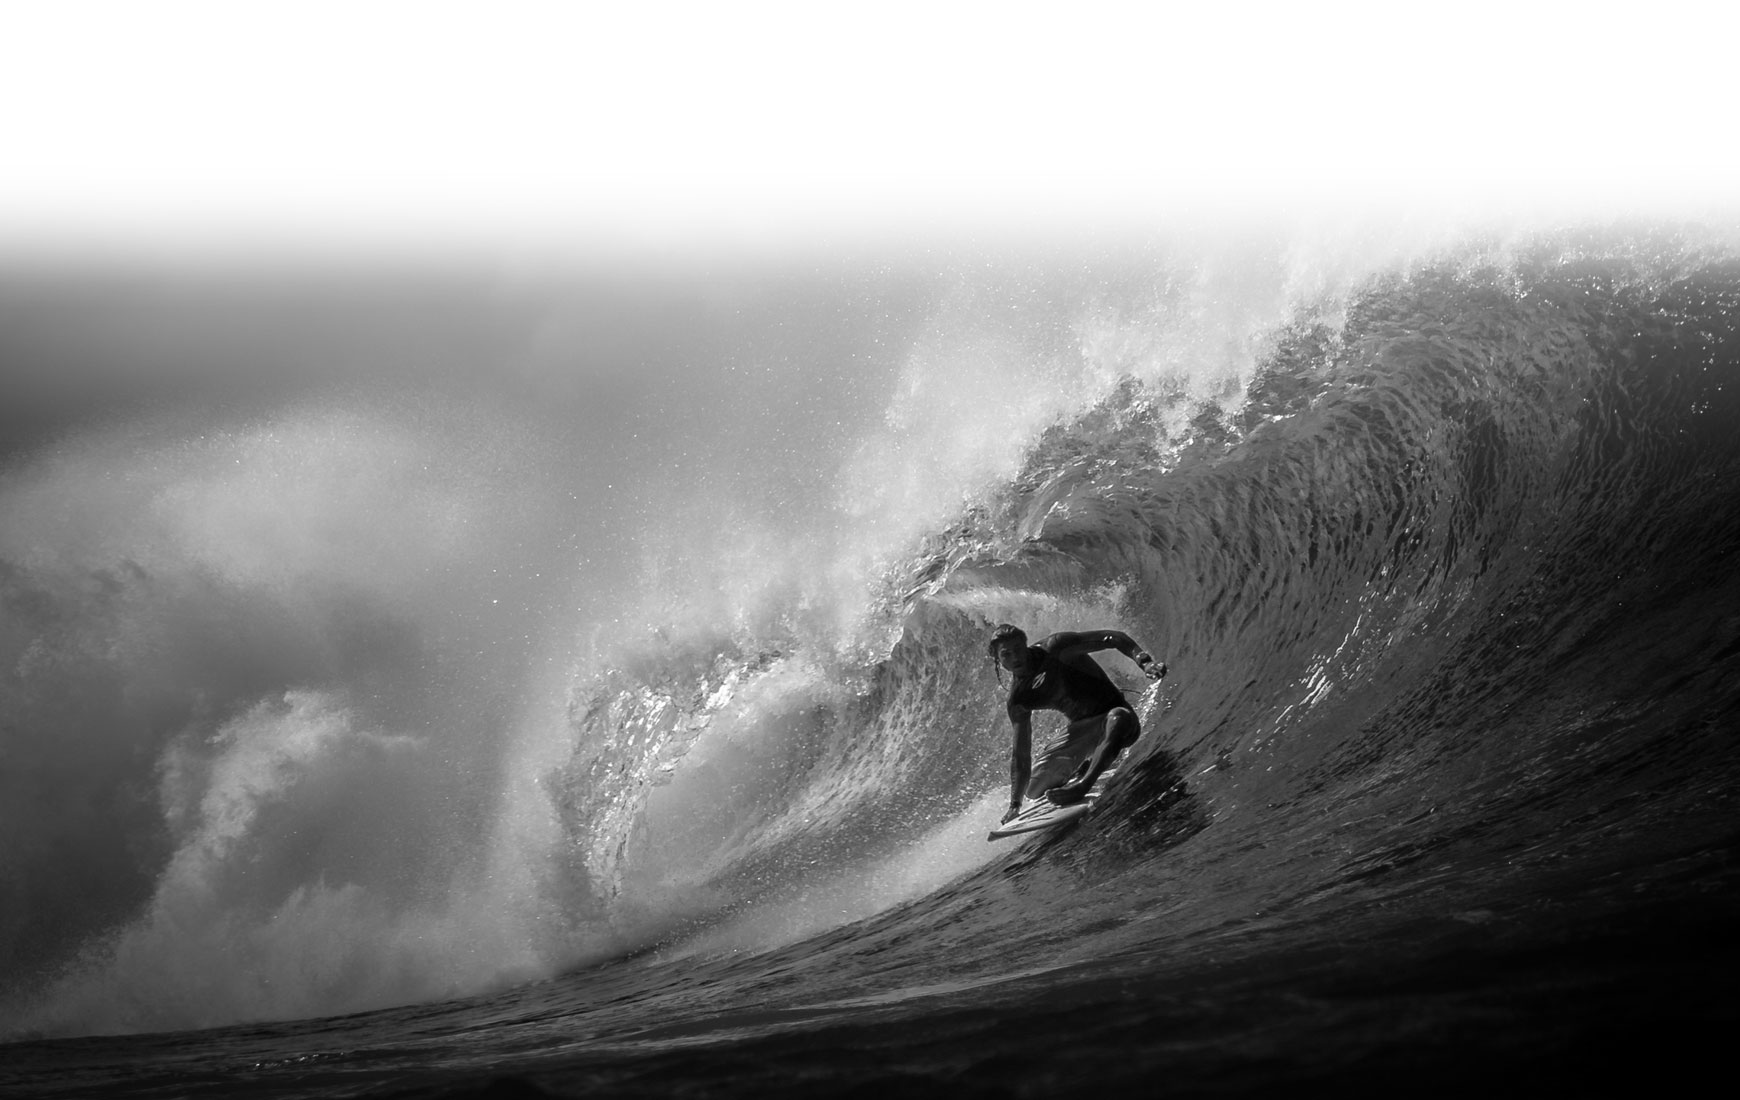
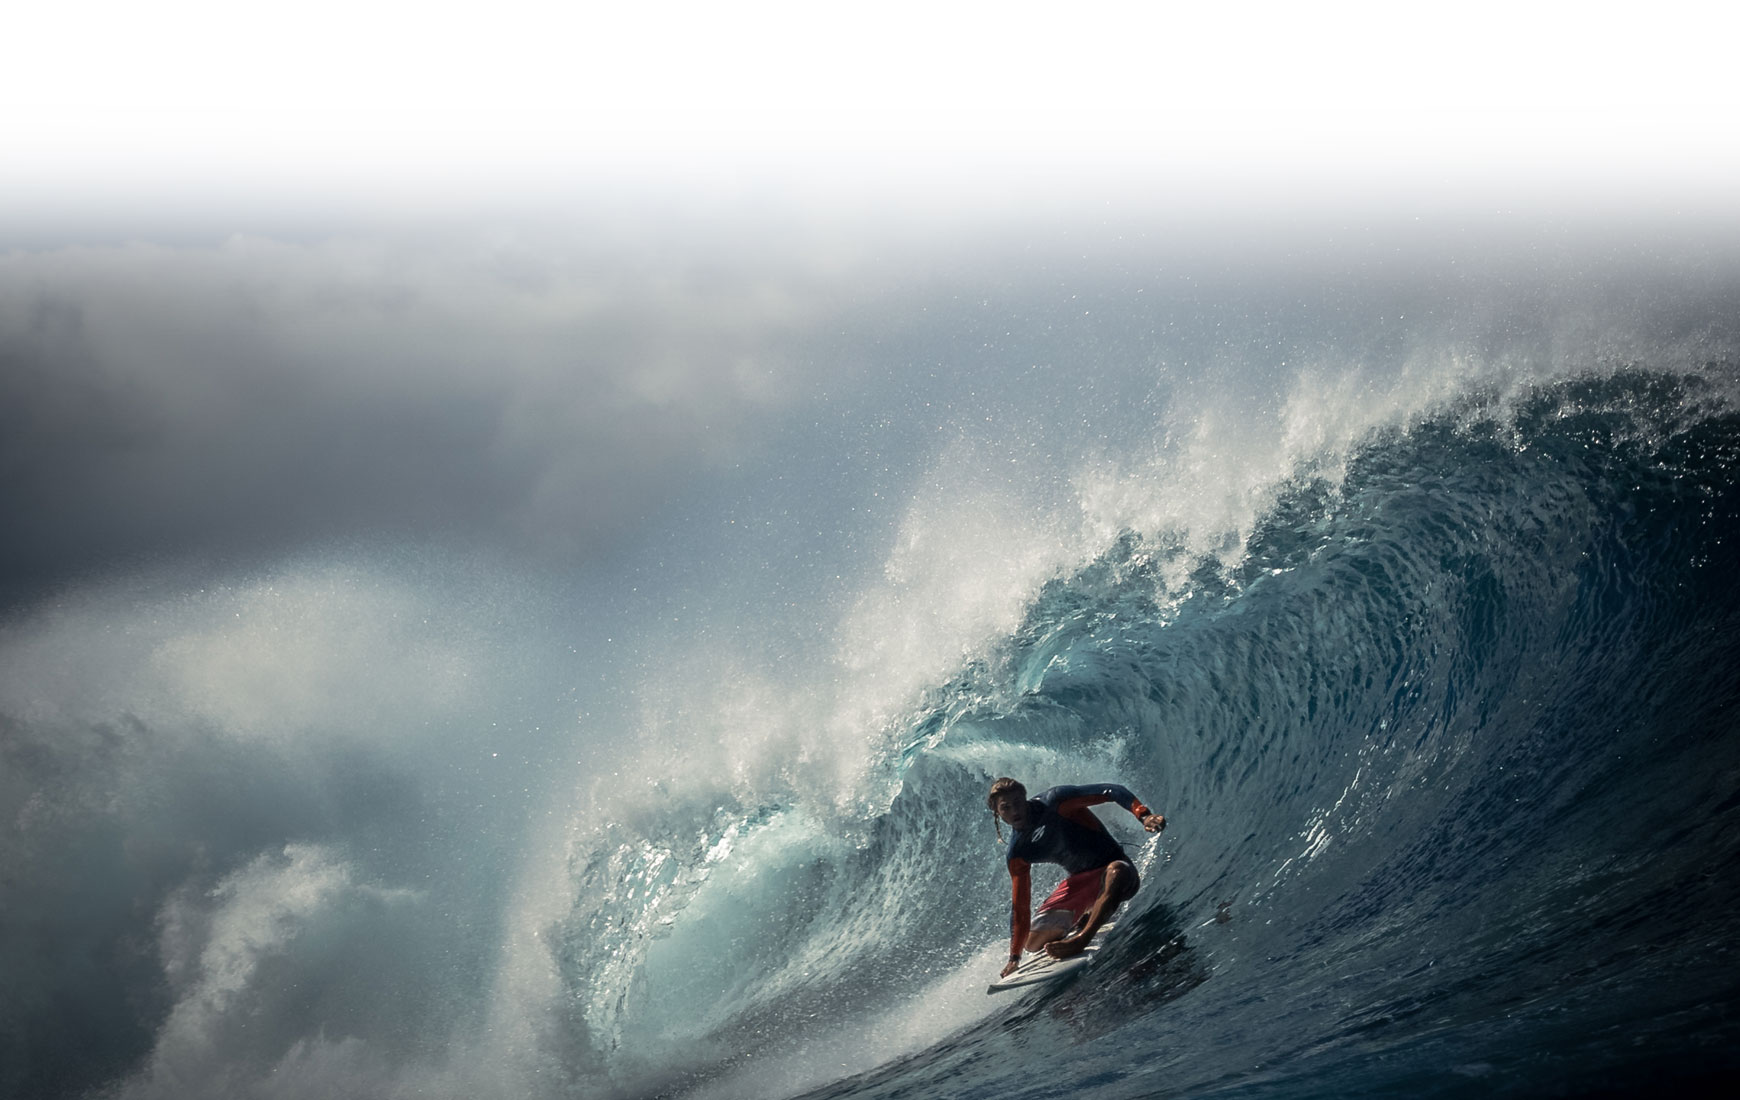
New between section

diff --git a/index.html b/index.html
@@ -5,7 +5,7 @@
   	<link rel="apple-touch-icon" sizes="76x76" href="assets/img/apple-icon.png">
   	<link rel="icon" type="image/png" href="assets/images/favicon.ico">
   	<meta http-equiv="X-UA-Compatible" content="IE=edge,chrome=1" />
-    <meta content='width=device-width, initial-scale=1.0, maximum-scale=1.0, user-scalable=0' name='viewport' />
+    <meta name=viewport content="width=device-width, initial-scale=1">
 
   	<title>WeeSurf | The surf world on your mobile. Interactive map for surfers</title>
 
@@ -53,34 +53,6 @@
     <meta itemprop="name" content="WeeSurf | The surf world on your mobile. Interactive map for surfers">
     <meta itemprop="description" content="The social and interactive map for surfers on your mobile. WEESURF locates for you surf spots, shops, schools, shapers, surfboards rental and repair.">
     <meta itemprop="image" content="http://www.weesurf.com/assets/images/social/weesurf-social-card.jpg">
-
-    <!-- Facebook Pixel Code -->
-    <!-- <script>
-      !function(f,b,e,v,n,t,s){if(f.fbq)return;n=f.fbq=function(){n.callMethod?
-      n.callMethod.apply(n,arguments):n.queue.push(arguments)};if(!f._fbq)f._fbq=n;
-      n.push=n;n.loaded=!0;n.version='2.0';n.queue=[];t=b.createElement(e);t.async=!0;
-      t.src=v;s=b.getElementsByTagName(e)[0];s.parentNode.insertBefore(t,s)}(window,
-      document,'script','https://connect.facebook.net/en_US/fbevents.js');
-
-      fbq('init', '1190316601020148');
-      fbq('track', "PageView");
-    </script>
-    <noscript><img height="1" width="1" style="display:none"
-    src="https://www.facebook.com/tr?id=1190316601020148&ev=PageView&noscript=1"
-    /></noscript> -->
-    <!-- End Facebook Pixel Code -->
-
-    <!-- Hotjar Tracking Code for http://www.weesurf.com -->
-    <!-- <script>
-      (function(h,o,t,j,a,r){
-        h.hj=h.hj||function(){(h.hj.q=h.hj.q||[]).push(arguments)};
-        h._hjSettings={hjid:245261,hjsv:5};
-        a=o.getElementsByTagName('head')[0];
-        r=o.createElement('script');r.async=1;
-        r.src=t+h._hjSettings.hjid+j+h._hjSettings.hjsv;
-        a.appendChild(r);
-      })(window,document,'//static.hotjar.com/c/hotjar-','.js?sv=');
-    </script> -->
   </head>
 
   <body class="index-page">
@@ -194,20 +166,41 @@
             <div class="row">
               <div class="col-md-8 col-md-offset-2 text-center">
                 <div class="row">
-                  <div class="col-sm-4 col-md-4 label-container">
-                    <span class="label label-weesurf">Explore the world</span>
+                  <div class="col-xs-4 col-sm-4 col-md-4">
+                    <div class="info text-center">
+                      <div class="icon icon-primary">
+                        <i class="material-icons">gesture</i>
+                      </div>
+                      <h4 class="info-title">Explore the world</h4>
+                    </div>
                   </div>
-                  <div class="col-sm-4 col-md-4 label-container">
-                    <span class="label label-weesurf">Share exceptional experiences</span>
+                  <div class="col-xs-4 col-sm-4 col-md-4">
+                    <div class="info text-center">
+                      <div class="icon icon-primary">
+                        <i class="material-icons">question_answer</i>
+                      </div>
+                      <h4 class="info-title">Share exceptional experiences</h4>
+                    </div>
                   </div>
-                  <div class="col-sm-4 col-md-4 label-container ">
-                    <span class="label label-weesurf">Live your passion</span>
+                  <div class="col-xs-4 col-sm-4 col-md-4">
+                    <div class="info text-center">
+                      <div class="icon icon-primary">
+                        <i class="material-icons">stars</i>
+                      </div>
+                      <h4 class="info-title">Live your passion</h4>
+                    </div>
                   </div>
                 </div>
               </div>
             </div>
           </div>
         </div>
+      </div>
+    </div>
+
+    <!-- BETWEEN SECTION -->
+    <div class="main">
+      <div class="section section-between">
       </div>
     </div>
 
@@ -469,7 +462,6 @@
               <div class="team-player">
                 <img src="assets/images/team/ronan.jpg" alt="Ronan's profile pic" class="img-raised img-circle">
                 <h4 class="title">Ronan Baudet<br><small class="text-muted">CTO</small></h4>
-                <p class="description">Lorem ipsum</p>
                 <a href="https://www.facebook.com/ronan.baudet" class="btn btn-simple btn-just-icon">
                   <i class="fa fa-facebook"></i>
                 </a>
@@ -482,7 +474,6 @@
               <div class="team-player">
                 <img src="assets/images/team/maxime.jpg" alt="Ronan's profile pic" class="img-raised img-circle">
                 <h4 class="title">Maxime Lainé<br><small class="text-muted">CEO</small></h4>
-                <p class="description">Lorem ipsum</p>
                 <a href="https://twitter.com/maximela1ne" class="btn btn-simple btn-just-icon">
                   <i class="fa fa-twitter"></i>
                 </a>
@@ -498,7 +489,6 @@
               <div class="team-player">
                 <img src="assets/images/team/arthur.jpg" alt="Ronan's profile pic" class="img-raised img-circle">
                 <h4 class="title">Arthur Berteloot<br><small class="text-muted">Product Manager</small></h4>
-                <p class="description">Lorem ipsum</p>
                 <a href="https://www.facebook.com/arthur.berteloot" class="btn btn-simple btn-just-icon">
                   <i class="fa fa-facebook"></i>
                 </a>
@@ -718,6 +708,34 @@
 
   <!-- END of body -->
   </body>
+
+  <!-- Facebook Pixel Code -->
+  <!-- <script>
+    !function(f,b,e,v,n,t,s){if(f.fbq)return;n=f.fbq=function(){n.callMethod?
+    n.callMethod.apply(n,arguments):n.queue.push(arguments)};if(!f._fbq)f._fbq=n;
+    n.push=n;n.loaded=!0;n.version='2.0';n.queue=[];t=b.createElement(e);t.async=!0;
+    t.src=v;s=b.getElementsByTagName(e)[0];s.parentNode.insertBefore(t,s)}(window,
+    document,'script','https://connect.facebook.net/en_US/fbevents.js');
+
+    fbq('init', '1190316601020148');
+    fbq('track', "PageView");
+  </script>
+  <noscript><img height="1" width="1" style="display:none"
+  src="https://www.facebook.com/tr?id=1190316601020148&ev=PageView&noscript=1"
+  /></noscript> -->
+  <!-- End Facebook Pixel Code -->
+
+  <!-- Hotjar Tracking Code for http://www.weesurf.com -->
+  <!-- <script>
+    (function(h,o,t,j,a,r){
+      h.hj=h.hj||function(){(h.hj.q=h.hj.q||[]).push(arguments)};
+      h._hjSettings={hjid:245261,hjsv:5};
+      a=o.getElementsByTagName('head')[0];
+      r=o.createElement('script');r.async=1;
+      r.src=t+h._hjSettings.hjid+j+h._hjSettings.hjsv;
+      a.appendChild(r);
+    })(window,document,'//static.hotjar.com/c/hotjar-','.js?sv=');
+  </script> -->
 
   <!--   Core JS Files   -->
   <script src="assets/js/jquery.min.js" type="text/javascript"></script>

diff --git a/assets/css/weesurf.css b/assets/css/weesurf.css
@@ -133,7 +133,7 @@
 }
 
 .index-page .brand h1 {
-  font-family: "Roboto",sans-serif;
+  font-family: "aspexregular",sans-serif !important;
   font-weight: 200;
 }
 
@@ -170,7 +170,6 @@ i { font-style: normal; }
 
 .section-why {
   padding: 70px 0;
-  border-bottom: 1px solid #cdcdcd;
   max-width: 100%;
   overflow: hidden;
 }
@@ -189,17 +188,36 @@ i { font-style: normal; }
   }
 }
 
+.section-why .info {
+  padding: 50px 0 30px;
+}
+
 @media (max-width: 767px) {
-  .section-why .label-container {
-    margin-bottom: 20px;
+  .section-why .info {
+    padding: 10px 0 30px;
   }
 }
 
-.label-weesurf {
-  padding: 10px 20px;
-  border-radius: 20px;
-  background-color: #0f1a7f;
+/******************************************************************************/
+.section-between {
+  position: relative;
+  padding: 70px 0;
+  height: 360px;
 }
+
+.section-between::after {
+  content: "";
+  position: absolute;
+  background: url('../images/cover-between.jpg') no-repeat center;
+  background-size: cover;
+  top: 0;
+  right: 0;
+  left: 0;
+  bottom: 0;
+  z-index: -1;
+}
+
+/******************************************************************************/
 
 .section-features {
   position: relative;
@@ -548,7 +566,7 @@ footer {
 .section-footer::after {
   content: "";
   position: absolute;
-  background: url('../images/cover-footer-2.jpg') no-repeat;
+  background: url('../images/cover-footer.jpg') no-repeat;
   background-size: cover;
   width: 100%;
   height: 100%;
